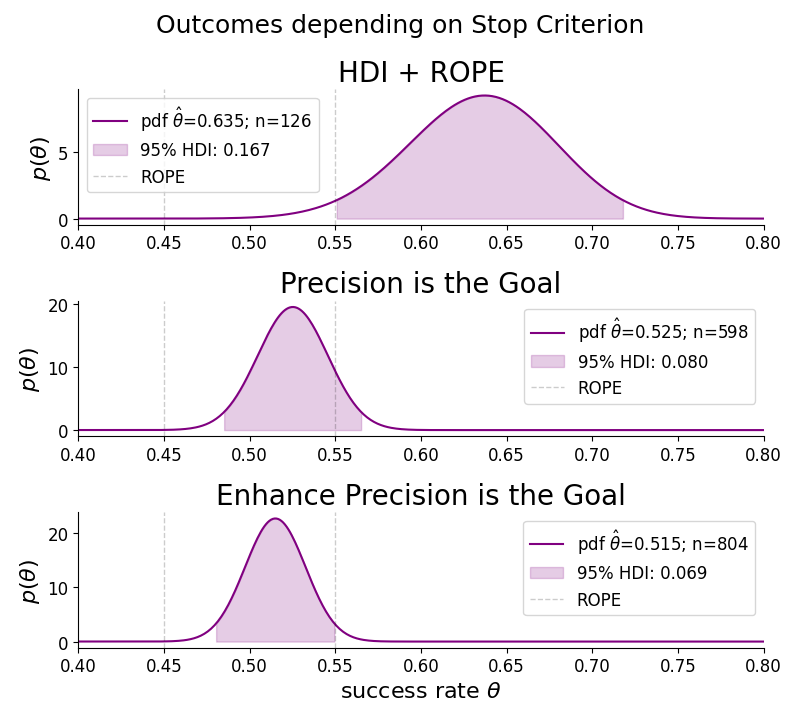
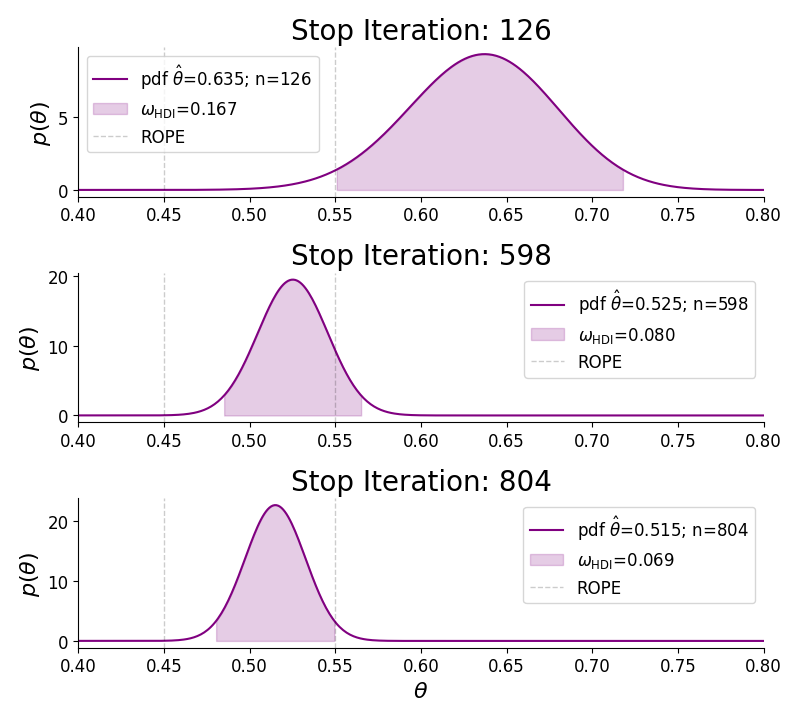
methods section revised

diff --git a/latex/precision_goal_methods.tex b/latex/precision_goal_methods.tex
@@ -79,11 +79,14 @@ Crucially, we distinguish between the \textbf{Stopping Rule} (when to stop colle
 \begin{figure}[h!]
     \centering
     \includegraphics[width=1\textwidth]{cherry_posteriors.png}
-    \caption{Posteriors of subsamples of an example sequence. 
-    Shaded areas are 95\% HDIs. The ROPE is within vertical dashed lines.
-    Top: HDI fully outside of ROPE $\rightarrow$ Reject $\theta_{\rm null}$.
-    Middle: HDI straddles ROPE $\rightarrow$ Inconclusive.
-    Bottom: HDI fully within ROPE $\rightarrow$ Accept $\theta_{\rm null}$.
+    \caption{Posteriors at three stop iterations from a hand-picked experiment
+    illustrating the three possible decision outcomes.
+    Shaded areas are 95\% HDIs; their widths $\omega_{\rm HDI}$ are annotated.
+    Vertical dashed lines mark the ROPE boundaries.
+    \textit{Top} (iteration 126): HDI fully outside the ROPE $\rightarrow$ Reject $\theta_{\rm null}$.
+    \textit{Middle} (iteration 598): HDI straddles the ROPE $\rightarrow$ Inconclusive.
+    \textit{Bottom} (iteration 804): HDI fully within the ROPE $\rightarrow$ Accept $\theta_{\rm null}$.
+    See Figure~\ref{fig:iterations} for the full sequence of iterations for this experiment.
     }
     \label{fig:posteriors}
 \end{figure}
@@ -145,7 +148,7 @@ pre-specified notion of practical equivalence, enabling three distinct verdicts:
 true value is practically equivalent to $\theta_{\rm null}$, not merely ``not different'');
 \textbf{Reject null} (HDI fully \textit{outside} the ROPE --- positive evidence of a
 meaningful difference); or \textbf{Inconclusive} (HDI straddles the ROPE boundary ---
-more data are needed). Note that Bayes Factors can also yield positive evidence \textit{for}
+more data are needed). Note that Bayes Factors can also yield positive evidence for
 the null, but do so by comparing marginal likelihoods rather than by assessing practical
 equivalence; the HDI+ROPE Accept verdict is therefore distinctive in being grounded in a
 pre-specified effect-size criterion.
@@ -160,20 +163,18 @@ particular, a ``Reject null'' decision does not endorse $\hat\theta$ as the true
 quantifies the uncertainty surrounding it.
 
 The panels of Figure~\ref{fig:posteriors} make this concrete under the default setup
-($\theta_{\rm null}=0.5$, $\Delta_{\rm ROPE}=0.1$, $\mathrm{ROPE}=[0.45, 0.55]$):
+($\theta_{\rm null}=0.5$, $\mathrm{ROPE}_{\rm max}^{\rm min}=[0.45,\,0.55]$):
 
 \begin{itemize}
   \item \textbf{Bottom panel} (iteration 804, \textbf{Accept}):
         $\hat\theta=0.515$ and the 95\% HDI is
-        $[{\color{red}0.480},\,{\color{red}0.549}]$
-        {\color{red}[TODO: replace with actual HDI bounds from figure]}.
-        Both bounds lie inside $[0.45,\,0.55]$, so we \textbf{accept}
+        $[0.480,\,0.549]$.
+        Both bounds lie inside the ROPE, so we \textbf{accept}
         $\theta_{\rm null}=0.5$: positive evidence that the true rate is practically
         equivalent to $0.5$. We are \textit{not} claiming the true rate equals $0.515$.
   \item \textbf{Top panel} (iteration 126, \textbf{Reject}):
         $\hat\theta=0.635$ and the 95\% HDI is
-        $[{\color{red}0.552},\,{\color{red}0.718}]$
-        {\color{red}[TODO: replace with actual HDI bounds from figure]}.
+        $[0.551,\,0.718]$.
         Both bounds lie above $\mathrm{ROPE}_{\rm max}=0.55$, so we \textbf{reject}
         $\theta_{\rm null}=0.5$: positive evidence that the true rate is meaningfully
         above $0.5$. We are \textit{not} claiming the true rate equals $0.635$.
@@ -204,28 +205,37 @@ In the Pre-Survey column we highlight the characteristic parameter required to b
 \begin{enumerate}
     \item \textbf{HDI + ROPE}: Requires $N_\mathrm{min}$ (minimal sample size), e.g., 30. This is crucial as the algorithm is sensitive to early outliers.
     \item \textbf{Precision Methods}: Require $\omega_{\rm Goal}$, the target precision width.
-    By definition it must be narrower than the ROPE width $\Delta_\mathrm{ROPE}$.
+    By definition it must be narrower than the ROPE width $\Delta_\mathrm{ROPE}$ to ensure
+    that it could be fully contained within.
 \end{enumerate}
 
 For brevity, the table excludes two universal parameters required for all three algorithms:
 \begin{itemize}
-    \item $\Delta_\mathrm{ROPE}$ (Effect Size): The width of the Region of Practical Equivalence. This assumes symmetry around the null,
-    more generically one could specify $\mathrm{ROPE}_\mathrm{min}$ and $\mathrm{ROPE}_\mathrm{max}$ separately.
+    \item The ROPE boundaries $\mathrm{ROPE}_\mathrm{min}$ and $\mathrm{ROPE}_\mathrm{max}$: By definition
+    this is the region of practical equivalence which quantifies the effect size of interest,
+    which below it is considered negligible for practical purposes.
+    $\Delta_\mathrm{ROPE} \equiv \mathrm{ROPE}_\mathrm{max} - \mathrm{ROPE}_\mathrm{min}$ is the ROPE width.
     \item $N_\mathrm{max}$ (Final Budget): The maximum sample size or budget limit.
 \end{itemize}
 
-\subsubsection{HDI + ROPE: Location Only}
+\subsubsection{HDI + ROPE Stopping: Location Only}
 
 The \textbf{HDI + ROPE} method stops data collection as soon as the posterior's location allows for a decisive acceptance or rejection of the null hypothesis. It does not explicitly demand a specific degree of precision (width), only that the HDI does not straddle the ROPE boundary.
 
-Algorithm \ref{alg:hdi_rope} details the procedure. Note the inclusion of $N_\mathrm{min}$ (minimal sample size); this is critical because, with small sample sizes, the HDI can fluctuate wildly and accidentally fall entirely within or outside the ROPE due to random noise (aleatoric uncertainty) rather than true effect.
+Algorithm \ref{alg:hdi_rope} details the procedure. Note the inclusion of $N_\mathrm{min}$
+(minimal sample size); this is critical because, with small sample sizes, the HDI can
+fluctuate wildly and accidentally fall entirely within or outside the ROPE due to random noise
+(aleatoric uncertainty)\footnote{Note the distinction from the epistemic uncertainty discussed
+earlier: the HDI \textit{width} $\omega_{\rm HDI}$ is epistemic --- it reflects how much we do not yet know about
+$\theta$ and shrinks as $N$ grows. The HDI \textit{location}, however, varies across experiments
+due to the randomness of which particular draws are observed; at small $N$ this aleatoric
+variability dominates, and the HDI can wander into a misleadingly decisive position.} rather
+than true effect.
 
 \begin{algorithm}
     \caption{HDI + ROPE}\label{alg:hdi_rope}
     \begin{algorithmic}
-    \Require $N_\mathrm{min}$, $N_\mathrm{max}$, $\theta_{\rm null}$, $\Delta_\mathrm{ROPE}$
-    \State $\mathrm{ROPE}_\mathrm{min} = \theta_{\rm null} - \frac{1}{2}\Delta_\mathrm{ROPE}$
-    \State $\mathrm{ROPE}_\mathrm{max} = \theta_{\rm null} + \frac{1}{2}\Delta_\mathrm{ROPE}$
+    \Require $N_\mathrm{min}$, $N_\mathrm{max}$, $\theta_{\rm null}$, $\mathrm{ROPE}_\mathrm{min}$, $\mathrm{ROPE}_\mathrm{max}$
     \State Stop = False
     \State Decision = Inconclusive
     \State N = 0
@@ -245,20 +255,18 @@ Algorithm \ref{alg:hdi_rope} details the procedure. Note the inclusion of $N_\ma
 
 This method is efficient but, as detailed in Section \ref{sec:results}, serves as a cautionary use case of ``confirmation bias'' or ``peeking'' intent if not bounded by $N_\mathrm{min}$.
 
-\subsubsection{Precision Is The Goal (PitG): Precision Only}
+\subsubsection{Precision is the Goal Stopping: Precision Only}
 
 Introduced by \cite{kruschke2015doing}, \textbf{Precision is the Goal} shifts the stopping condition from the \textit{decision} to the \textit{precision} (width) of the estimate. Data collection stops when the width of the HDI is narrower than a pre-specified Goal (e.g., 80\% of the ROPE width).
 
 Algorithm \ref{alg:pitg} shows the ``De-coupled'' nature of this method: stopping depends on width, while the decision depends on location.
 As we later demonstrate in Section \ref{sec:results}, this can lead to situations where
-the algorithm stops (precision reached) but the result is Inconclusive (straddling).
+the algorithm stops (precision reached) but the result is inconclusive (posterior straddles the ROPE).
 
 \begin{algorithm}
     \caption{Precision is the Goal}\label{alg:pitg}
     \begin{algorithmic}
-    \Require Goal, $N_\mathrm{max}$, $\theta_{\rm null}$, $\Delta_\mathrm{ROPE}$
-    \State $\mathrm{ROPE}_\mathrm{min} = \theta_{\rm null} - \frac{1}{2}\Delta_\mathrm{ROPE}$
-    \State $\mathrm{ROPE}_\mathrm{max} = \theta_{\rm null} + \frac{1}{2}\Delta_\mathrm{ROPE}$
+    \Require $\omega_\mathrm{Goal}$, $N_\mathrm{max}$, $\theta_{\rm null}$, $\mathrm{ROPE}_\mathrm{min}$, $\mathrm{ROPE}_\mathrm{max}$
     \State Stop = False
     \State Decision = Inconclusive
     \State N = 0
@@ -275,7 +283,7 @@ the algorithm stops (precision reached) but the result is Inconclusive (straddli
     \end{algorithmic}
 \end{algorithm}
 
-\subsubsection{Enhanced Precision Is The Goal (ePitG): Precision and Location}
+\subsubsection{Enhanced Precision Is The Goal Stopping: Precision and Location}
 
 We propose \textbf{Enhanced Precision is the Goal}, a conservative variant of PitG, to mitigate the high rate of inconclusive results. This method ``re-couples'' the criteria: it stops strictly when \textit{both} the precision goal is met \textit{AND} a conclusive decision can be made.
 
@@ -284,9 +292,7 @@ As seen in Algorithm \ref{alg:epitg}, strictly enforcing both conditions ensures
 \begin{algorithm}
     \caption{Enhanced Precision is the Goal}\label{alg:epitg}
     \begin{algorithmic}
-    \Require Goal, $N_\mathrm{max}$, $\theta_{\rm null}$, $\Delta_\mathrm{ROPE}$
-    \State $\mathrm{ROPE}_\mathrm{min} = \theta_{\rm null} - \frac{1}{2}\Delta_\mathrm{ROPE}$
-    \State $\mathrm{ROPE}_\mathrm{max} = \theta_{\rm null} + \frac{1}{2}\Delta_\mathrm{ROPE}$
+    \Require $\omega_\mathrm{Goal}$, $N_\mathrm{max}$, $\theta_{\rm null}$, $\mathrm{ROPE}_\mathrm{min}$, $\mathrm{ROPE}_\mathrm{max}$
     \State Stop = False
     \State Decision = Inconclusive
     \State N = 0
@@ -312,18 +318,17 @@ Note that all stopping algorithms (\ref{alg:hdi_rope}--\ref{alg:epitg}) assume t
 For models where the posterior concentrates around the true parameter as data accumulate,
 a property of all regular parametric families, guaranteed asymptotically by the
 Bernstein-von Mises theorem, the HDI width shrinks proportionally to $N^{-1/2}$.
-This makes the stopping iteration of precision-based algorithms predictable in advance.
-Under a normal (CLT) approximation, the expected sample size to achieve a precision goal
+This makes the expected minimum stopping iteration of precision-based algorithms predictable in advance.
+Under a normal approximation (central limit theorem; CLT) , the expected sample size to achieve a precision goal
 $\omega_{\rm goal}$ is proportional to the per-observation variance $V(\theta)$ of the
 estimator (see Appendix~\ref{app:expected_stop} for the full derivation).
-As a concrete example, for a Bernoulli rate parameter $\theta$ the setting introduced
+As a concrete example, for a Bernoulli rate parameter $\theta$ as in the setting introduced
 in Section~\ref{sec:experimental_design}, $V(\theta) = \theta(1-\theta)$, giving
 \begin{equation}\label{eq:pitg_stop_iteration}
 N_{\rm goal}(\theta,\omega_{\rm goal}) \approx \frac{4 z_{*}^{2}}{\omega_{\rm goal}^{2}}\,\theta(1-\theta),
 \end{equation}
 where $z_{*}$ is the critical value for the chosen credibility level (e.g.,
-$z_{*}\approx 1.96$ for 95\%). For continuous outcomes, $V(\theta)$ is replaced by the
-estimand variance $\sigma^2$.
+$z_{*}\approx 1.96$ for 95\%). 
 Because $\theta(1-\theta)$ is maximised at $\theta=0.5$, the fair-coin scenario demands
 the largest sample for any given precision goal, and $N_{\rm goal}$ decreases monotonically
 as $\theta$ approaches $0$ or $1$.
@@ -335,21 +340,28 @@ across a range of precision goals.
 \begin{figure}[h!]
   \centering
   \includegraphics[width=1\textwidth]{min_sample_by_goal.png}
-  \caption{Expected precision-based stop iteration $N_{\rm goal}(\theta_{\rm true}, \omega_{\rm goal})$
-  (Equation~\ref{eq:pitg_stop_iteration}) as a function of
+  \caption{Expected minimum precision-based stop iteration
+  $N_{\rm goal}(\theta_{\rm true}, \omega_{\rm goal})$ as a function of
   $\theta_{\rm true}$ for several values of $\omega_{\rm goal}$ in the Bernoulli case.
+  (Equation~\ref{eq:pitg_stop_iteration})
   %Left: Bernoulli case.
   %Right: continuous case with $\sigma^2=1$.
   }
   \label{fig:min_sample_by_goal}
 \end{figure}
 
+For completeness we mention that for continuous outcomes, $V(\theta)$ is replaced by the
+estimand variance $\sigma^2$.
+
 \subsection{Experimental Design}\label{sec:experimental_design}
 
 To evaluate and compare the performance of the three algorithms,
 we employ a synthetic data simulation based on Bernoulli trials (dichotomous data).
 While these methods are applicable to continuous data, we focus on the Bernoulli case
-to maintain comparability with the work of \cite{kruschke2015doing}.\footnote{We apply a similar setup to that in section 3.13 of \cite{kruschke2015doing}, with some modifications if visualisations to better illustrate the differences between the algorithms.}
+to maintain comparability with the work of \cite{kruschke2015doing}.\footnote{We apply a
+similar setup to that in section 3.13 of \cite{kruschke2015doing},
+with some modifications of the visualisations to illustrate the differences between the
+algorithms' results.}
 
 We generate $M=2,000$ independent sequences of $N_{\rm max}=1,500$ trials each. This maximum sample size is chosen to simulate a typical medium-sized survey or experiment.
 
@@ -360,10 +372,10 @@ We test multiple scenarios for the ground truth probability between $0.5 \le \th
 Unless stated otherwise, we utilize the following default parameters, chosen to reflect detailed but realistic experimental conditions (e.g., opinion polling):
 
 \begin{itemize}
-    \item \textbf{ROPE Width ($\Delta_{\rm ROPE}=0.1$}): We define the Region of Practical Equivalence as $\theta_{\rm null} \pm 0.05$. This implies that any result within the range $[0.45, 0.55]$ is considered practically equivalent to the null.
-    \item \textbf{Precision Goal}: We set the target precision (HDI width) to 80\% of the ROPE width ($\mathrm{Goal}=0.08$).
-    \item \textbf{Minimum Sample Size ($N_{\rm min}=30$}): A practical lower bound to prevent premature stopping due to early stochastic noise, particularly relevant for the location-based HDI+ROPE algorithm.
-    \item \textbf{Maximum Sample Size ($N_{\rm max}=1,500$}): An upper bound for budgetary considerations. Experiments that are not decisive by this iteration are flagged as {\it indecisive}.
+    \item \textbf{ROPE}: Considering an effect size of $0.05$ around the $\theta_{\rm null}$, we define the Region of Practical Equivalence as $\mathrm{ROPE}_{\rm max}^{\rm min}=[0.45,\,0.55]$. ($\Delta_{\rm ROPE}=0.1$)
+    \item \textbf{Precision Goal} $\omega_{\rm goal}=0.08$: We set the target precision (HDI width) to 80\% of $\Delta_{\rm ROPE}$.
+    \item \textbf{Minimum Sample Size ($N_{\rm min}=30$)}: A practical lower bound to prevent premature stopping due to early stochastic noise. This is required for HDI+ROPE algorithm but not the precision-based algorithms.
+    \item \textbf{Maximum Sample Size ($N_{\rm max}=1,500$)}: An upper bound for budgetary considerations. Experiments that are not decisive by this iteration are flagged as {\it indecisive}.
 \end{itemize}
 
 In the following section, we present the results of these simulations, first under these default settings and subsequently by varying key parameters to explore robustness.
